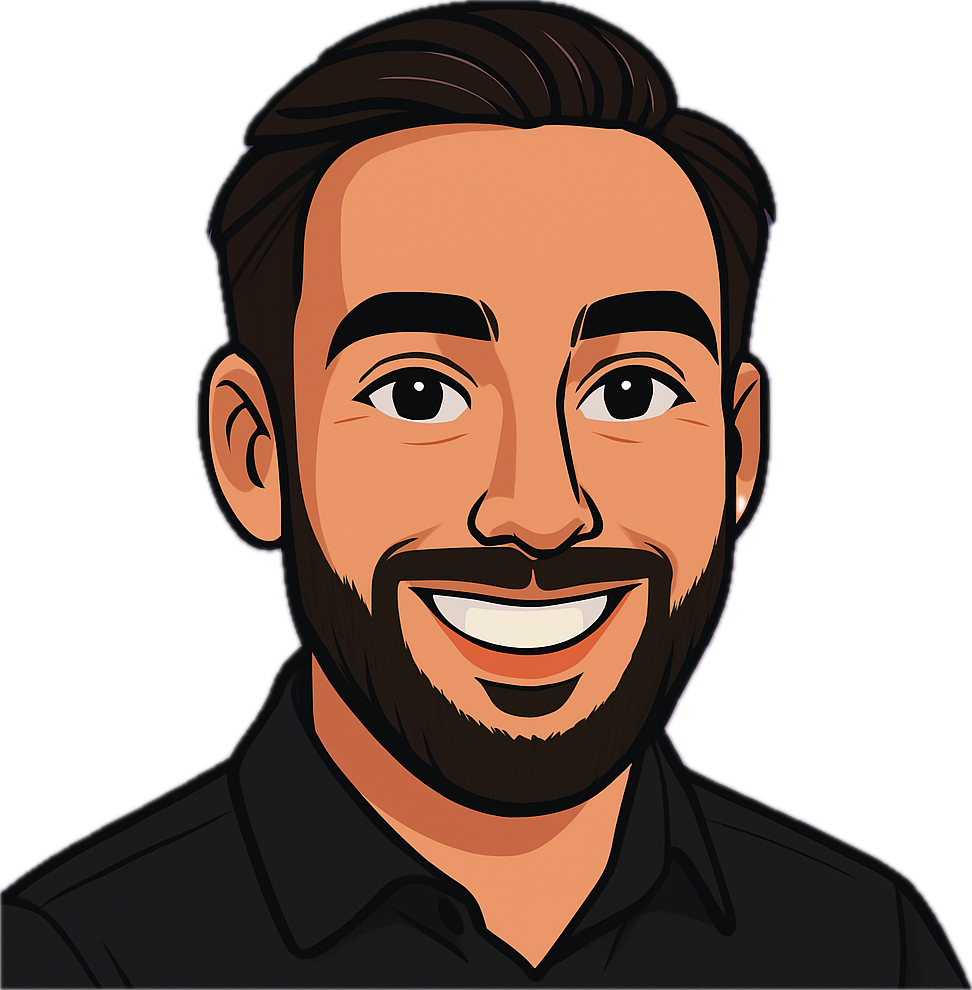
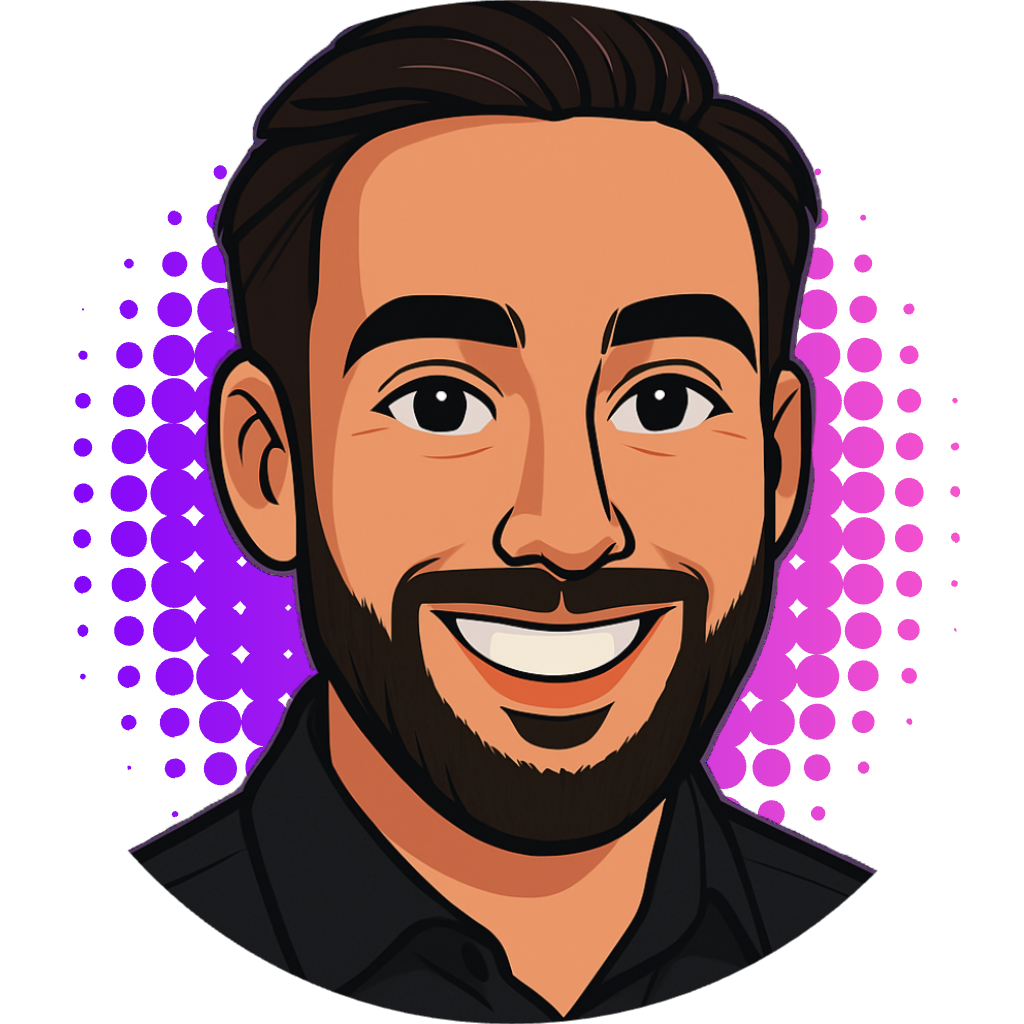
refactor(components): update text and improve project carousel logic
- Modify text in AboutBeamsDemo component for better clarity
- Refactor ProjectsCarousel to use external projects data and simplify image handling
- Update HomeHero component with additional social links and improved styling

diff --git a/components/home-hero.tsx b/components/home-hero.tsx
@@ -3,6 +3,7 @@ import { motion } from "motion/react"
 import { HeroHighlight, Highlight } from "@/components/ui/hero-highlight"
 import Image from "next/image"
 import { GradientBorderButton } from "@/components/ui/gradient-border-button"
+import { Github, Linkedin, Mail } from "lucide-react"
 
 export default function HomeHero() {
   return (
@@ -28,12 +29,19 @@ export default function HomeHero() {
                 duration: 0.5,
                 ease: [0.4, 0.0, 0.2, 1],
               }}
-              className="text-2xl px-4 md:px-0 md:text-4xl lg:text-5xl font-bold text-neutral-700 dark:text-white max-w-2xl leading-relaxed lg:leading-snug"
+              className="text-2xl px-4 md:px-0 md:text-4xl lg:text-6xl font-bold text-neutral-700 dark:text-white max-w-2xl leading-relaxed lg:leading-snug"
             >
-              Développeur passionné, créant des{" "}
-              <Highlight className="text-black dark:text-white">expériences numériques</Highlight> qui inspirent et
-              engagent.
+              Développeur <Highlight className="text-black dark:text-white">Full Stack</Highlight>
             </motion.h1>
+            
+            <motion.p
+              initial={{ opacity: 0, y: 20 }}
+              animate={{ opacity: 1, y: 0 }}
+              transition={{ duration: 0.5, delay: 0.5 }}
+              className="mt-4 px-4 md:px-0 text-base md:text-lg text-neutral-600 dark:text-neutral-300 max-w-xl"
+            >
+              Spécialisé dans le développement d'applications web modernes et performantes, je combine créativité et expertise technique pour donner vie à vos projets digitaux.
+            </motion.p>
 
             <motion.div
               initial={{ opacity: 0, y: 20 }}
@@ -42,6 +50,43 @@ export default function HomeHero() {
               className="mt-8 px-4 md:px-0"
             >
               <GradientBorderButton href="/a-propos">À propos de moi</GradientBorderButton>
+              
+              <div className="flex space-x-4 mt-6">
+                <motion.a
+                  href="https://github.com/e-maccioni26"
+                  target="_blank"
+                  rel="noopener noreferrer"
+                  className="text-gray-600 hover:text-indigo-500 dark:text-gray-400 dark:hover:text-indigo-400 transition-colors"
+                  initial={{ opacity: 0, scale: 0.8 }}
+                  animate={{ opacity: 1, scale: 1 }}
+                  transition={{ duration: 0.3, delay: 0.8 }}
+                >
+                  <Github size={22} />
+                  <span className="sr-only">GitHub</span>
+                </motion.a>
+                <motion.a
+                  href="https://linkedin.com/in/elone-maccioni"
+                  target="_blank"
+                  rel="noopener noreferrer"
+                  className="text-gray-600 hover:text-indigo-500 dark:text-gray-400 dark:hover:text-indigo-400 transition-colors"
+                  initial={{ opacity: 0, scale: 0.8 }}
+                  animate={{ opacity: 1, scale: 1 }}
+                  transition={{ duration: 0.3, delay: 0.9 }}
+                >
+                  <Linkedin size={22} />
+                  <span className="sr-only">LinkedIn</span>
+                </motion.a>
+                <motion.a
+                  href="mailto:elonemacc@gmail.com"
+                  className="text-gray-600 hover:text-indigo-500 dark:text-gray-400 dark:hover:text-indigo-400 transition-colors"
+                  initial={{ opacity: 0, scale: 0.8 }}
+                  animate={{ opacity: 1, scale: 1 }}
+                  transition={{ duration: 0.3, delay: 1 }}
+                >
+                  <Mail size={22} />
+                  <span className="sr-only">Email</span>
+                </motion.a>
+              </div>
             </motion.div>
           </motion.div>
 
@@ -56,7 +101,7 @@ export default function HomeHero() {
               <div className="absolute inset-0 -top-4 -left-4 bg-indigo-500/20 dark:bg-indigo-600/30 rounded-full blur-xl z-0"></div>
               <div className="relative z-10 w-full h-full">
                 <Image
-                  src="https://hebbkx1anhila5yf.public.blob.vercel-storage.com/profile-pic%20%282%29-B8yCiba26hzW4dgiMtpYhKQD54sMk9.png"
+                  src="/avatar.png"
                   alt="Avatar"
                   fill
                   className="object-contain"

diff --git a/components/projects-carousel.tsx b/components/projects-carousel.tsx
@@ -1,47 +1,26 @@
 "use client"
 
 import Carousel from "@/components/ui/carousel"
-import { motion } from "motion/react"
+import { motion } from "framer-motion"
 import { GradientBorderButton } from "@/components/ui/gradient-border-button"
+import { projects } from "@/components/projects-data"
 
 export default function ProjectsCarousel() {
-  const projectsData = [
-    {
-      title: "Application E-commerce",
-      description: "Plateforme de vente en ligne avec paiement intégré et gestion des stocks",
-      button: "Voir le projet",
-      src: "/images/projects/ecommerce.jpg",
-      link: "/projets/ecommerce",
-    },
-    {
-      title: "Portfolio Créatif",
-      description: "Site vitrine pour un photographe avec galerie interactive",
-      button: "Voir le projet",
-      src: "/images/projects/portfolio.jpg",
-      link: "/projets/portfolio",
-    },
-    {
-      title: "Dashboard Analytics",
-      description: "Interface d'administration avec visualisation de données en temps réel",
-      button: "Voir le projet",
-      src: "/images/projects/dashboard.jpg",
-      link: "/projets/dashboard",
-    },
-    {
-      title: "Application Mobile",
-      description: "Application de fitness avec suivi des performances et coaching personnalisé",
-      button: "Voir le projet",
-      src: "/images/projects/mobile.jpg",
-      link: "/projets/mobile",
-    },
-  ]
+  // Sélectionner les 4 premiers projets du tableau projects
+  const projectsData = projects.slice(0, 4).map(project => ({
+    title: project.title,
+    description: project.description,
+    button: "Voir le projet",
+    src: project.thumbnail,
+    link: project.link,
+  }))
 
-  // Utilisons des images de placeholder en attendant que l'utilisateur fournisse ses propres images
+  // Assurons-nous que les images s'affichent correctement
   const processedProjects = projectsData.map((project) => ({
     ...project,
-    src: project.src.includes("http")
-      ? project.src
-      : `/placeholder.svg?height=800&width=800&text=${encodeURIComponent(project.title)}`,
+    src: project.src.startsWith("http") 
+      ? project.src 
+      : project.src // Utiliser directement le chemin de l'image sans modification
   }))
 
   return (
@@ -66,7 +45,7 @@ export default function ProjectsCarousel() {
           </motion.p>
         </div>
 
-        <div className="relative overflow-hidden w-full h-full py-10">
+        <div className="relative overflow-hidden w-full h-full py-16">
           <Carousel slides={processedProjects} />
         </div>
 

diff --git a/components/about-beams-demo.tsx b/components/about-beams-demo.tsx
@@ -4,13 +4,13 @@ export default function AboutBeamsDemo() {
   return (
     <BackgroundBeamsWithCollision>
       <h2 className="text-2xl relative z-20 md:text-4xl lg:text-7xl font-bold text-center text-black dark:text-white font-sans tracking-tight">
-        Développeur passionné,{" "}
+        En savoir {" "}
         <div className="relative mx-auto inline-block w-max [filter:drop-shadow(0px_1px_3px_rgba(27,_37,_80,_0.14))]">
           <div className="absolute left-0 top-[1px] bg-clip-text bg-no-repeat text-transparent bg-gradient-to-r py-4 from-purple-500 via-violet-500 to-pink-500 [text-shadow:0_0_rgba(0,0,0,0.1)]">
-            <span className="">créateur d'expériences.</span>
+            <span className="">plus sur moi.</span>
           </div>
           <div className="relative bg-clip-text text-transparent bg-no-repeat bg-gradient-to-r from-purple-500 via-violet-500 to-pink-500 py-4">
-            <span className="">créateur d'expériences.</span>
+            <span className="">plus sur moi.</span>
           </div>
         </div>
       </h2>
